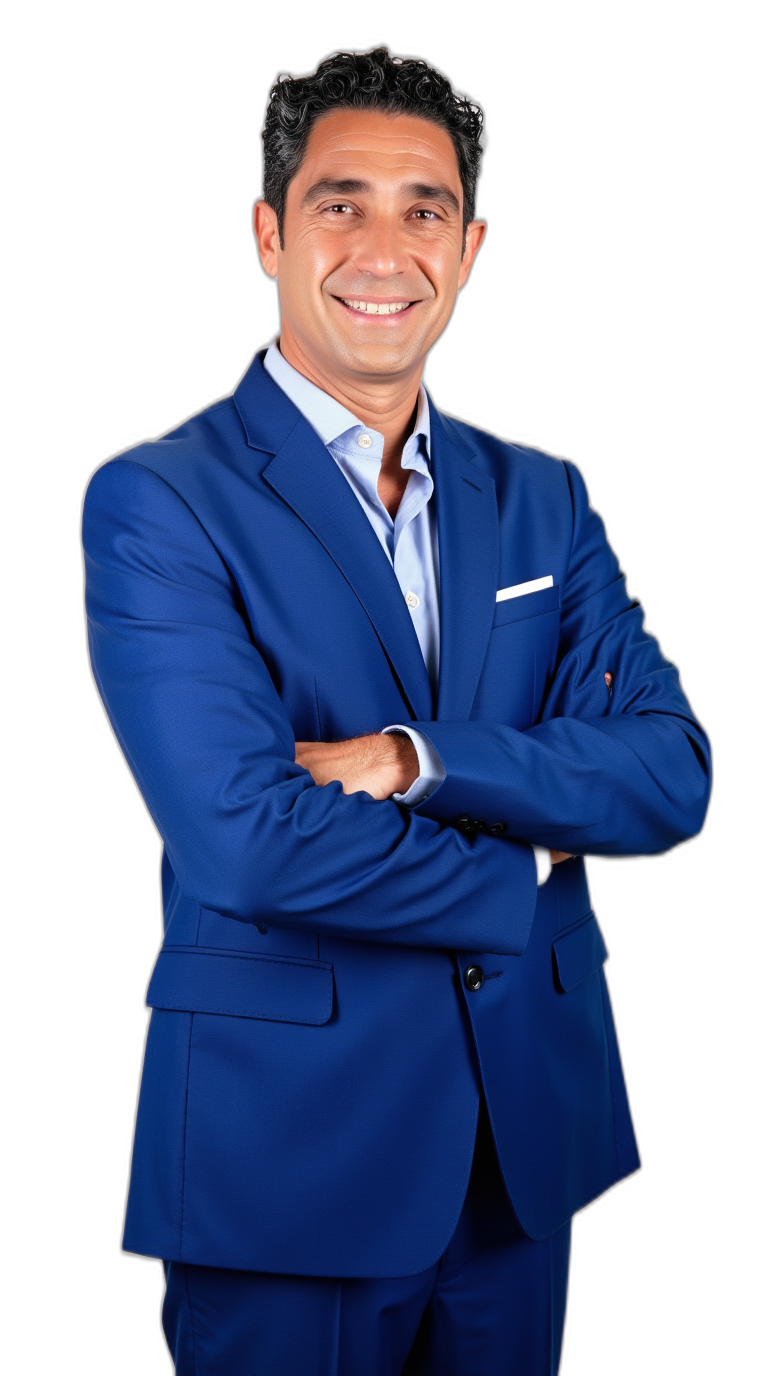
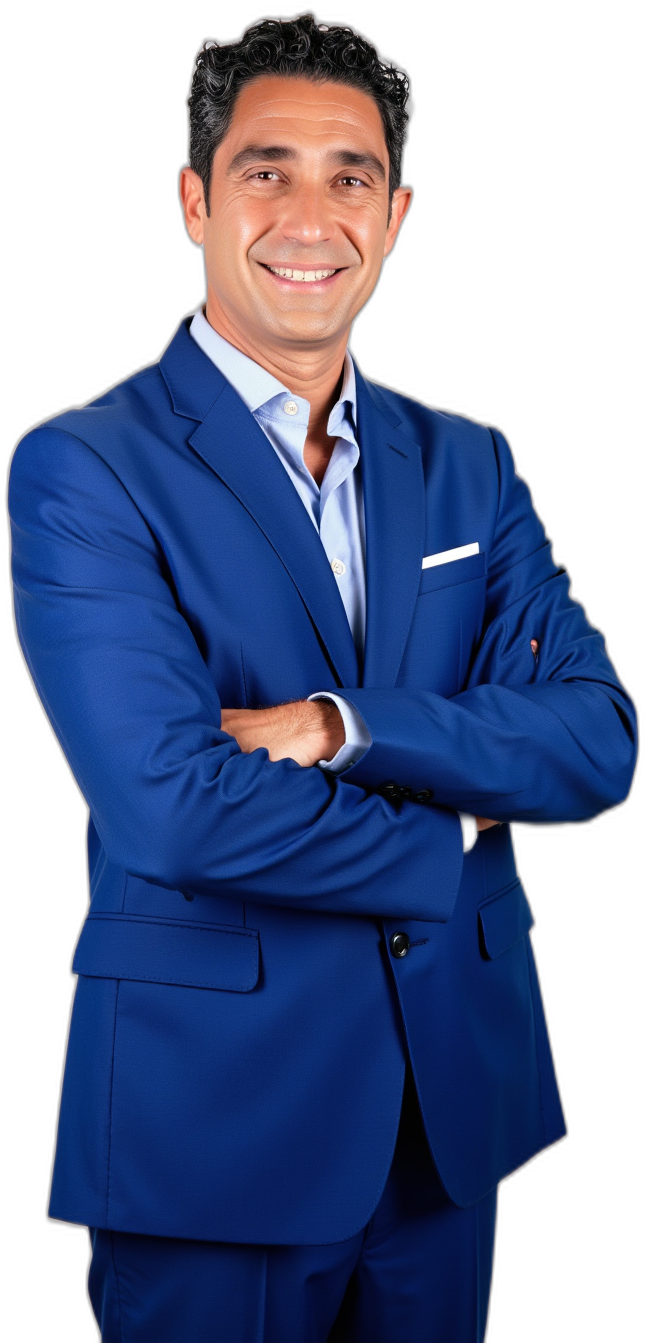
Fix cutout photos visibility — top anchor + above gradient
- Trim alpha bbox per ridurre spazio trasparente
- z-index:2 cutout sopra .lp-card-bg gradient (z:1)
- object-position:top center, height 78% (mobile 62%)
- Voice Actor torna al flow originale cover

diff --git a/style.css b/style.css
@@ -887,18 +887,14 @@ img,video{max-width:100%;height:auto}
 /* Voice Actor photo: object-position custom (subject centered, faccia visibile) */
 .lp-card:nth-child(2) .lp-card-img img{object-fit:cover;object-position:60% 30%}
 
-/* Cutout photos (PNG scontornate): contain + ancorate in basso, ingrandite */
-.lp-card-img--cutout{overflow:hidden}
+/* Cutout photos (PNG scontornate): in alto, contain, sopra il gradient bg */
+.lp-card-img--cutout{z-index:2!important;bottom:auto!important;height:78%!important}
 .lp-card-img--cutout img{
-  width:100%!important;height:92%!important;
-  object-fit:contain!important;object-position:bottom center!important;
-  bottom:0!important;right:auto!important;left:0!important;top:auto!important;
-  filter:drop-shadow(0 18px 30px rgba(0,0,0,.25));
+  width:100%!important;height:100%!important;
+  object-fit:contain!important;object-position:top center!important;
+  top:0!important;bottom:auto!important;right:auto!important;left:0!important;
+  filter:drop-shadow(0 14px 28px rgba(0,0,0,.28));
 }
-.lp-card:nth-child(1) .lp-card-img--cutout img{height:96%!important;transform:translateX(4%)}
-.lp-card:nth-child(3) .lp-card-img--cutout img{height:88%!important;filter:drop-shadow(0 18px 30px rgba(0,0,0,.18))}
 @media(max-width:768px){
-  .lp-card-img--cutout img{height:78%!important}
-  .lp-card:nth-child(1) .lp-card-img--cutout img{height:82%!important;transform:none}
-  .lp-card:nth-child(3) .lp-card-img--cutout img{height:74%!important}
+  .lp-card-img--cutout{height:62%!important}
 }

diff --git a/index.html b/index.html
@@ -351,7 +351,7 @@
         </div>
       </a>
       <a href="https://api.leadconnectorhq.com/widget/quiz/xxm3moD62l5h8DF8bu4S" class="lp-card">
-        <div class="lp-card-img lp-card-img--cutout"><img src="img/glc-microfono.png" alt="Voice Actor"></div>
+        <div class="lp-card-img"><img src="img/glc-microfono.png" alt="Voice Actor"></div>
         <div class="lp-card-bg"></div>
         <div class="lp-card-label">Voice Actor</div>
         <div class="lp-card-sub">Voglio una voce professionale con cui lavorare al microfono</div>
